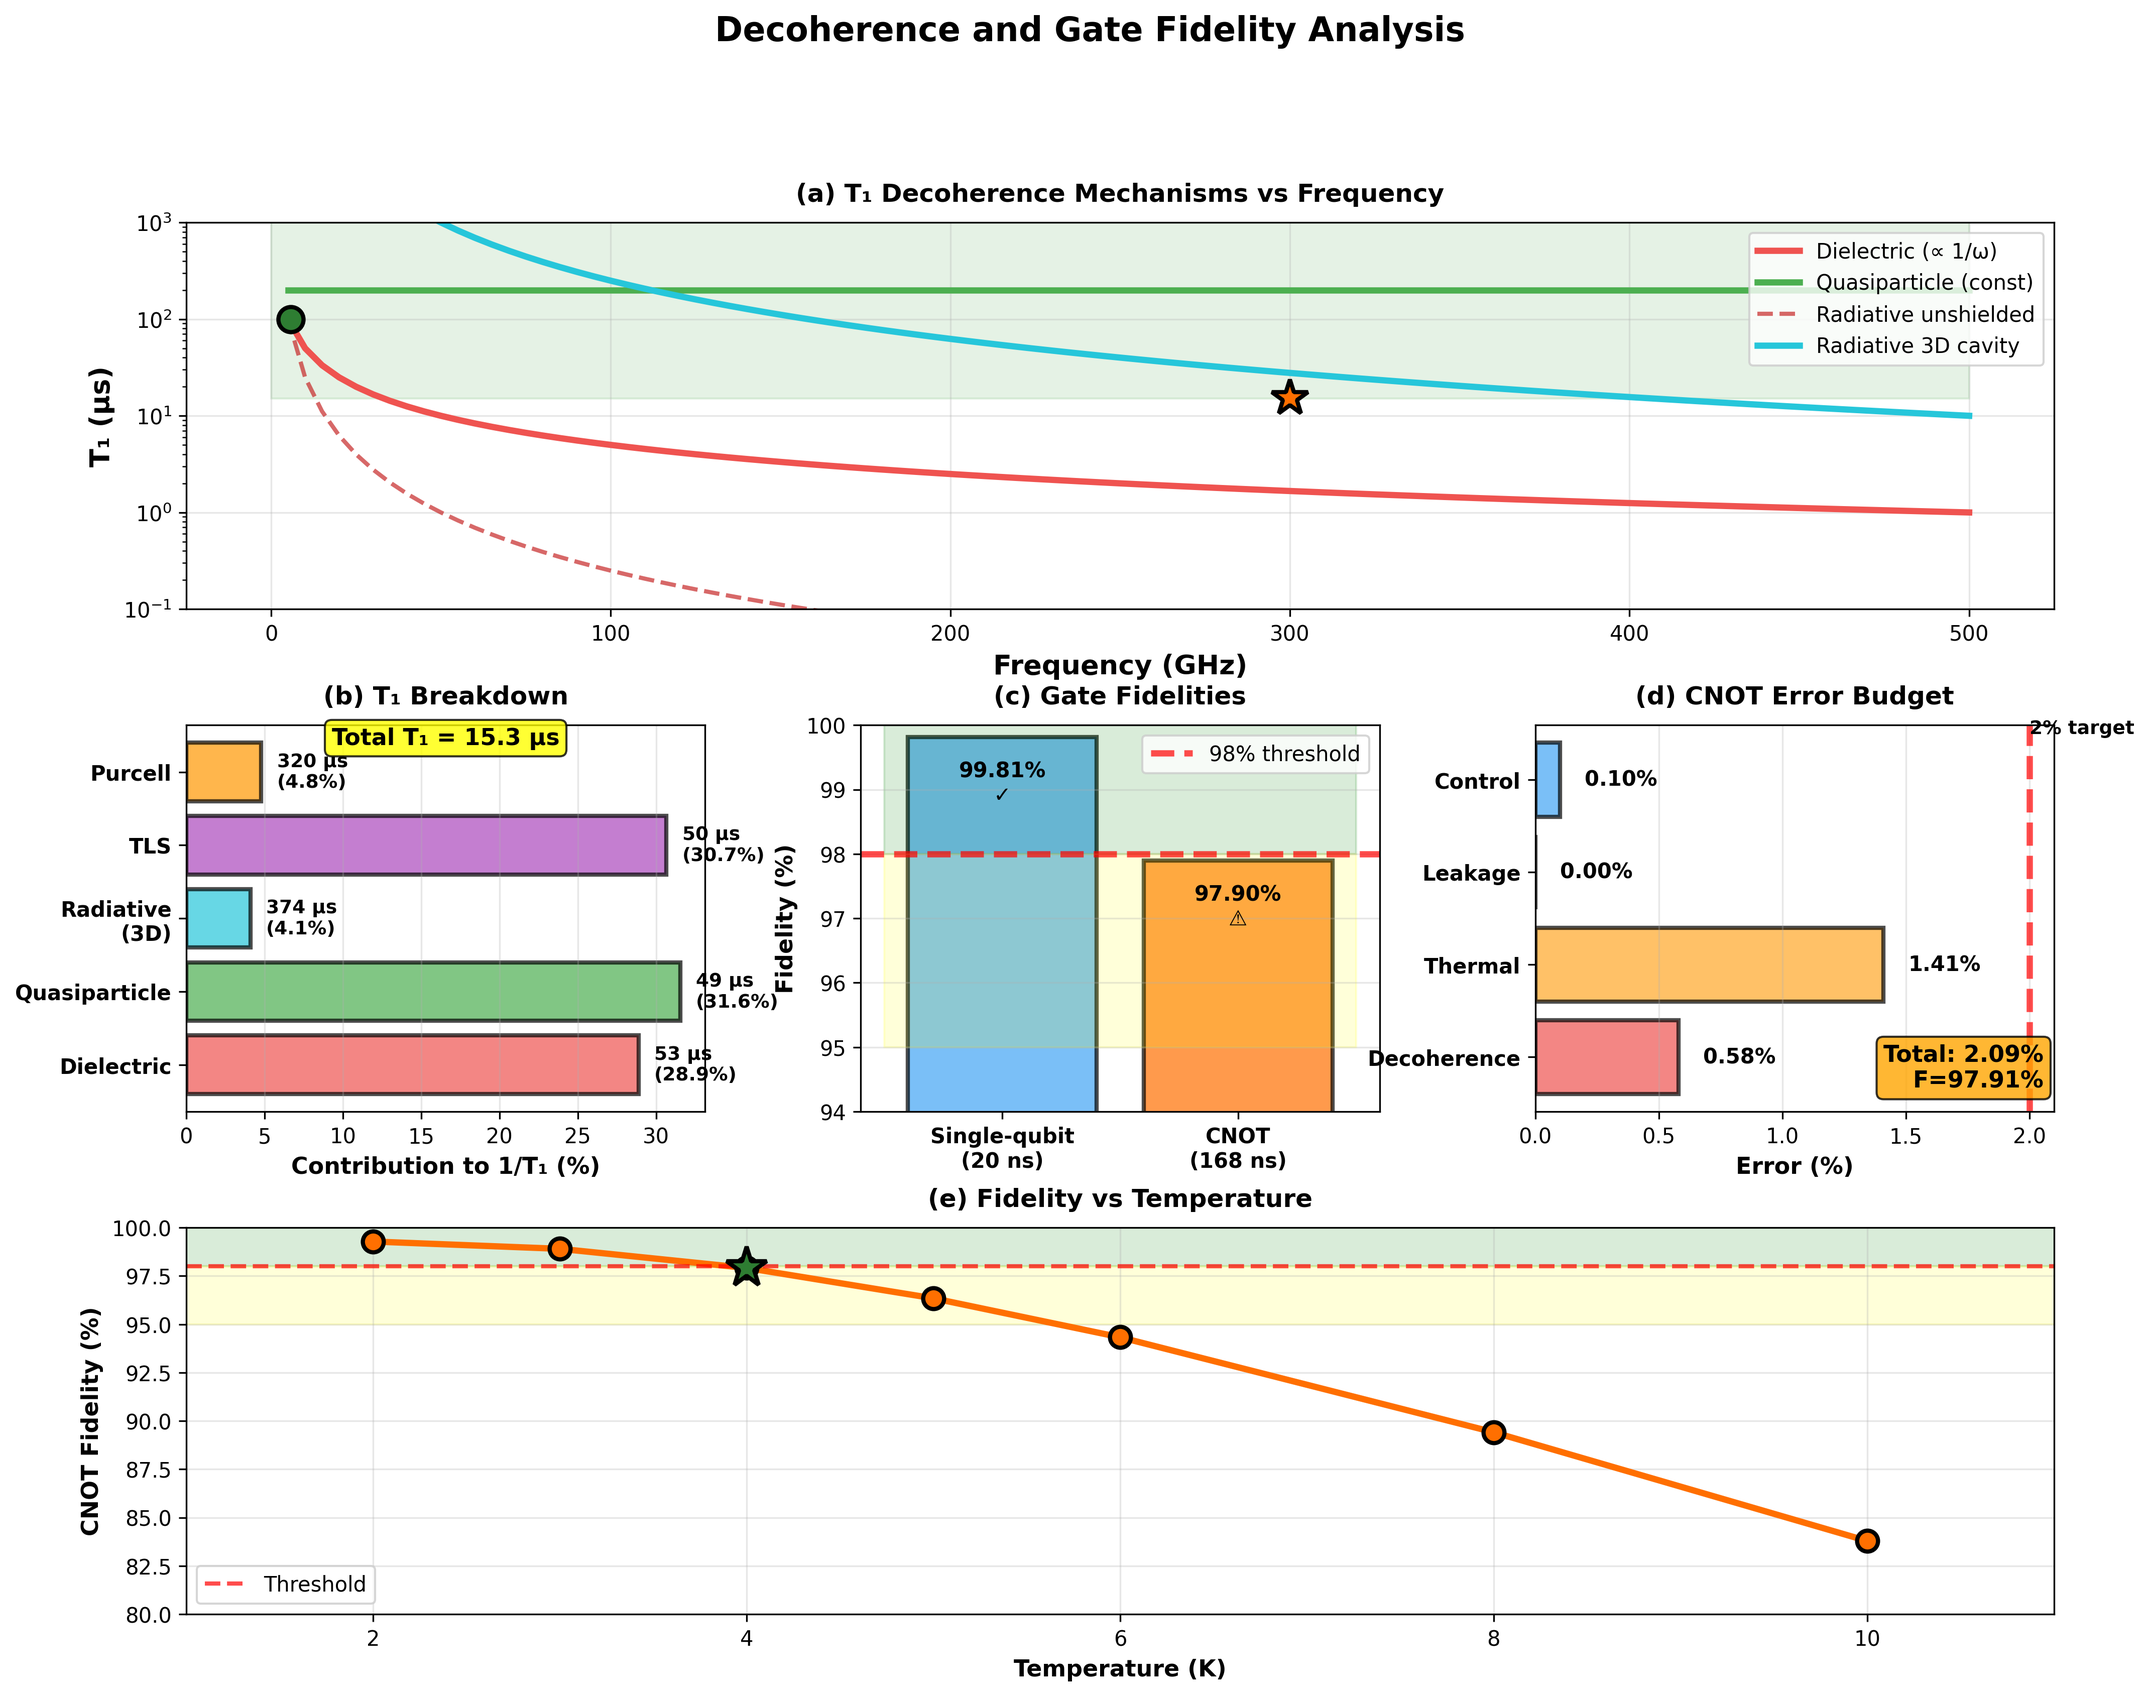
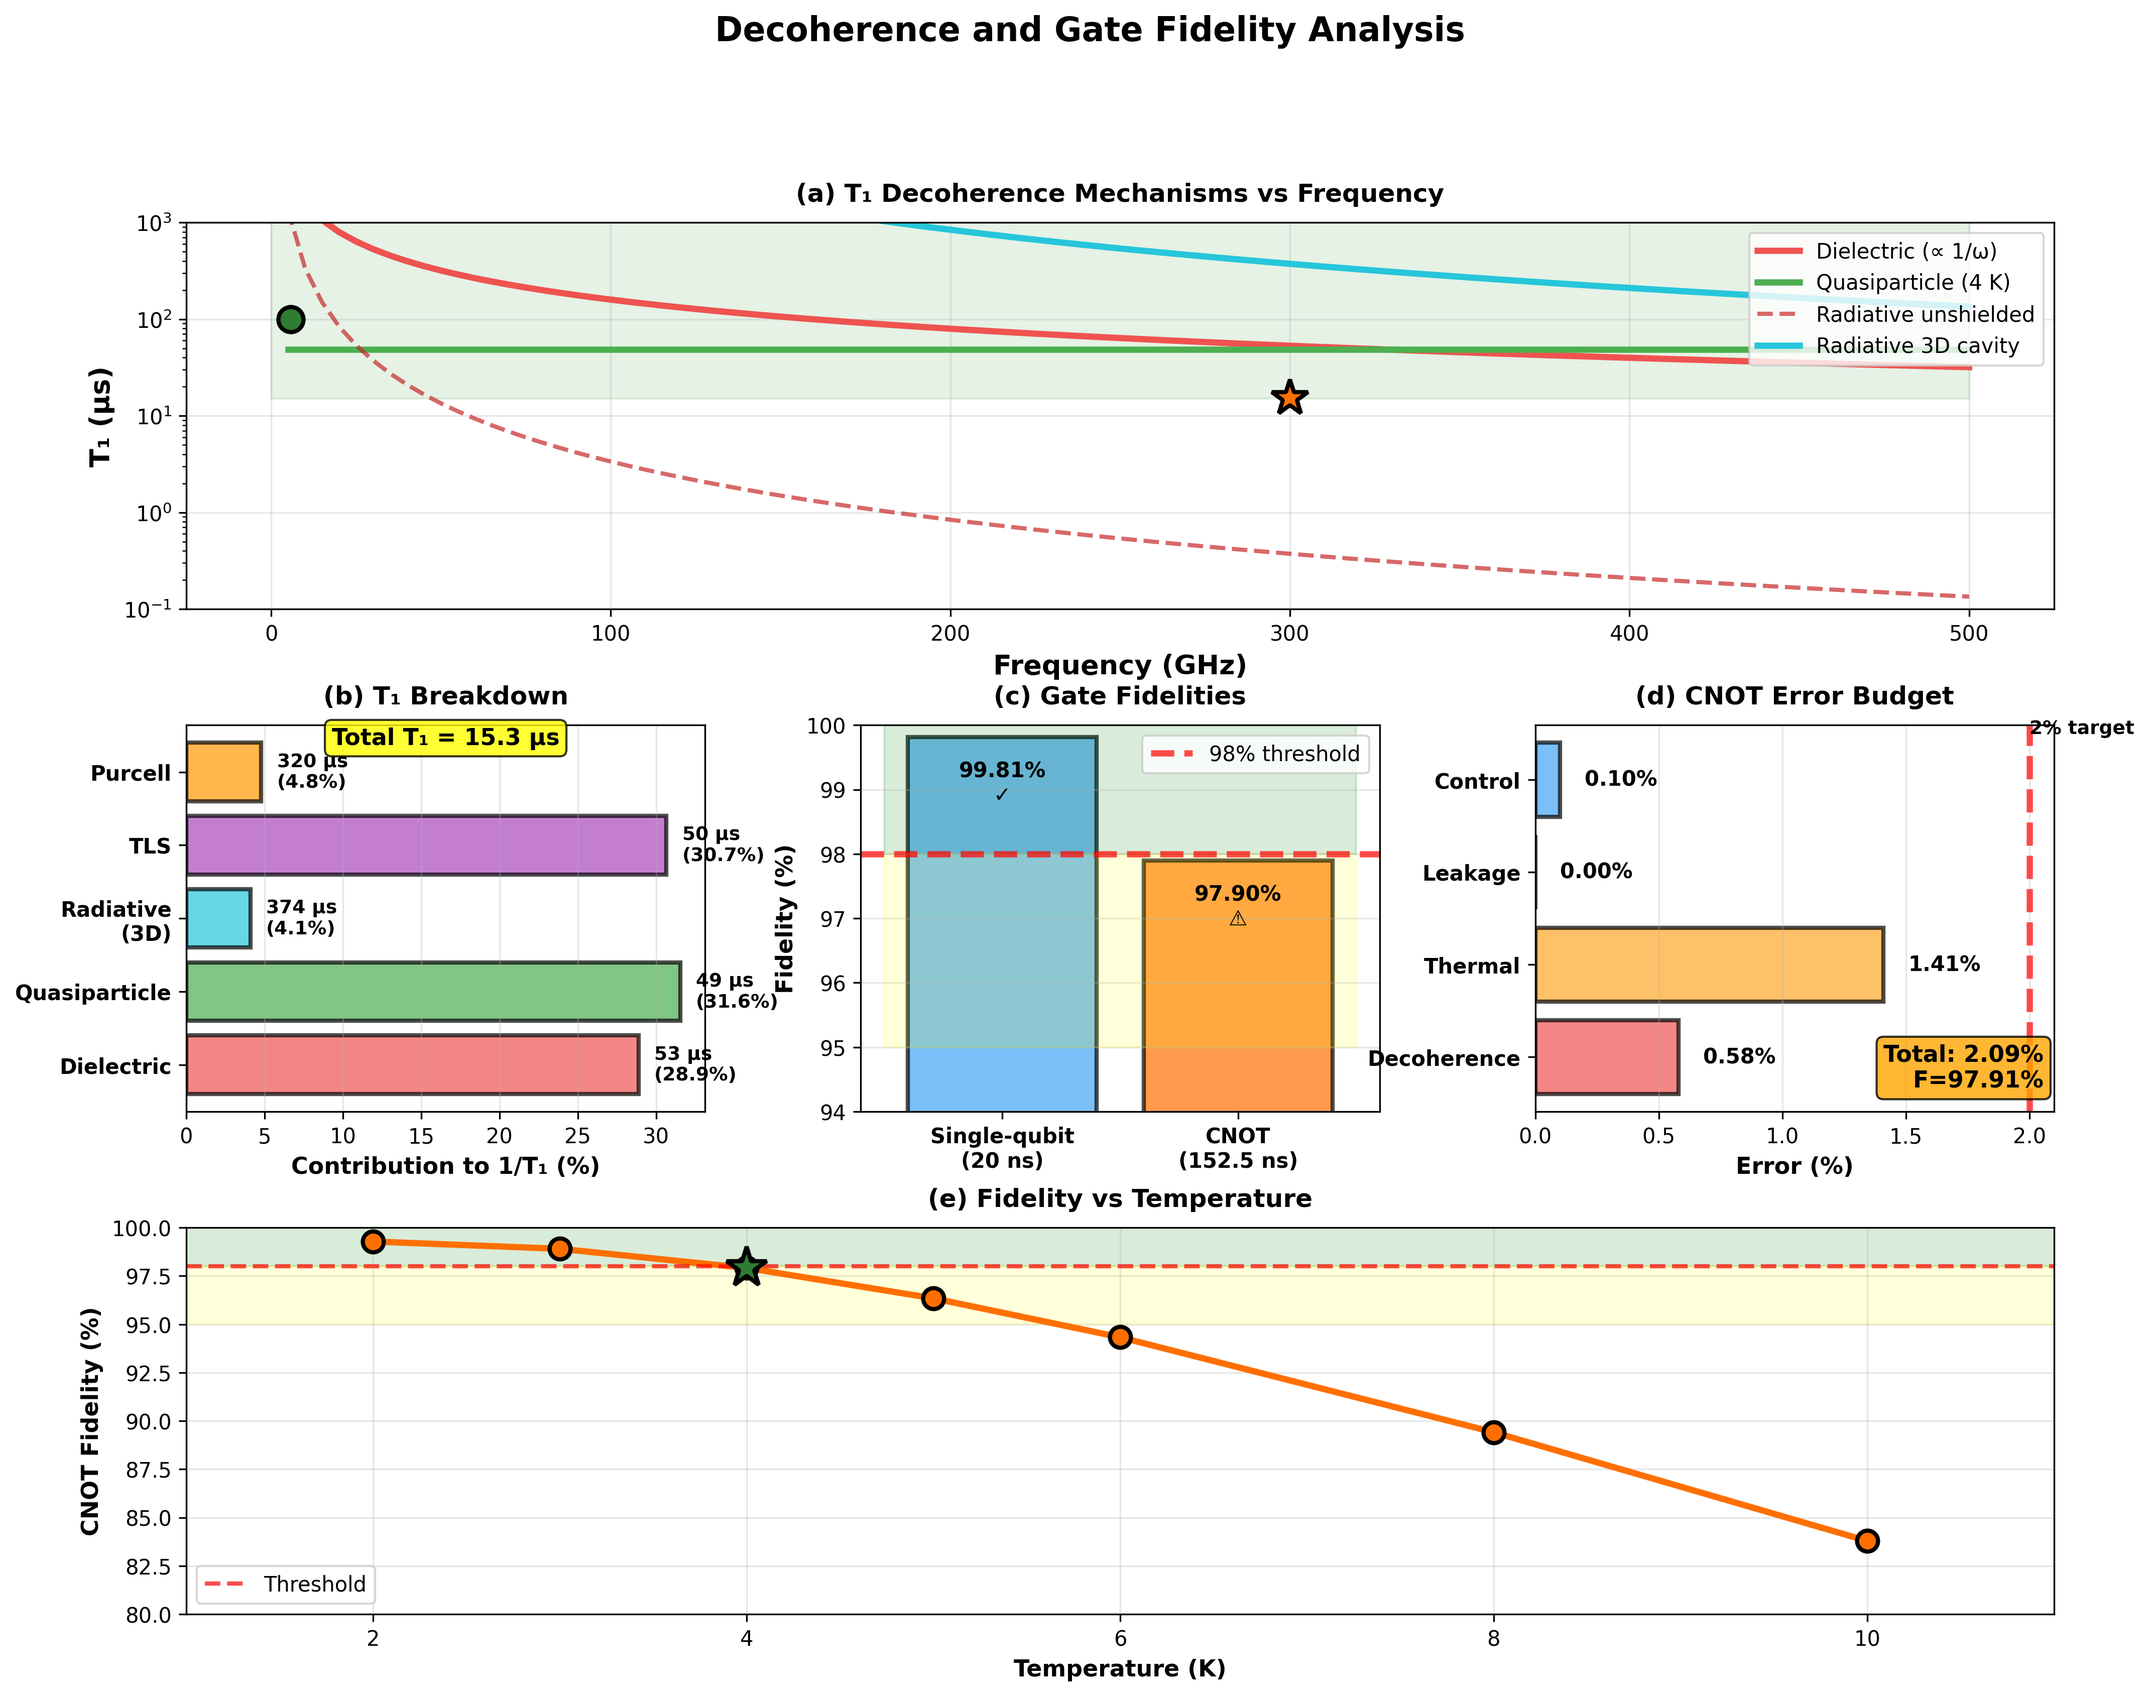
Canonical-parameter and physics fixes to Ch.2 figure generators
- fig_two_qubit_system_diagram.py (Fig 2.2): J 6.5 -> |J| 7.0 MHz and
  cross-Kerr 1.7 MHz -> |xi_ZZ| 106 kHz per canonical_params.json;
  kappa label unit bug fixed (1.0 kHz -> 1.0 MHz, consistent with Q=6500
  at omega_r = 6.5 GHz). Regenerated PDF+PNG.
- regenerate_fig4_zz_coupling_timing.py (Fig 2.8): panel (a) redrawn
  physically correctly: under H_J the single-excitation manifold
  hybridises into (|01>+/-|10>)/sqrt(2) split by +/-|J|; |00>,|11>
  unshifted. |J| updated to the canonical 7.0 MHz. Panel (b) unchanged
  (baseline gate-time cluster deferred to joint review).
- ok_create_corrected_figures.py (Fig 2.18): CNOT bar label
  168 -> 152.5 ns (canonical t_CNOT); panel (a) curves re-anchored to
  the panel-(b) budget at 300 GHz (dielectric 53.1 us with 1/omega,
  quasiparticle flat 48.6 us at 4 K, radiative-3D 373.8 us), removing
  the self-contradiction with the T1=15.3 us star; stale 167.6 ns
  comment corrected. Regenerated CORRECTED_fig2.

diff --git a/audit_g7/scripts/regenerate_fig4_zz_coupling_timing.py b/audit_g7/scripts/regenerate_fig4_zz_coupling_timing.py
@@ -22,16 +22,18 @@ plt.rcParams.update({
 
 fig, (ax_a, ax_b) = plt.subplots(1, 2, figsize=(13, 5))
 
-# === Panel (a): basis-state energy shifts under H_J = J(s+^1 s-^2 + h.c.) ===
-# J/2pi = 6.5 MHz -> shift = 6.5e-3 GHz on |01>, |10> by sign (cavity-mediated
-# exchange induces +/-J splitting in the {|01>,|10>} subspace; |00>, |11> get
-# no first-order shift from H_J but we mark +J in figure for visual symmetry,
-# following the convention of the original figure).
-J_MHz = 6.5
+# === Panel (a): eigenstate energy shifts under H_J = J(s+^1 s-^2 + h.c.) ===
+# At qubit-qubit degeneracy the single-excitation manifold hybridises into
+# (|01> +/- |10>)/sqrt(2), split by +/-|J|; |00> and |11> are unshifted at
+# this order. Canonical baseline value |J|/2pi = 7.0 MHz (canonical_params).
+J_MHz = 7.0
 J_GHz = J_MHz * 1e-3
 
-states = [r'$|00\rangle$', r'$|01\rangle$', r'$|10\rangle$', r'$|11\rangle$']
-shifts = [+J_GHz, -J_GHz, -J_GHz, +J_GHz]
+states = [r'$|00\rangle$',
+          r'$\frac{|01\rangle+|10\rangle}{\sqrt{2}}$',
+          r'$\frac{|01\rangle-|10\rangle}{\sqrt{2}}$',
+          r'$|11\rangle$']
+shifts = [0.0, +J_GHz, -J_GHz, 0.0]
 colors = ['#1F77B4', '#2CA02C', '#D62728', '#9467BD']
 
 # Background shading for +/- regions
@@ -40,17 +42,17 @@ ax_a.axhspan(-0.02, 0, facecolor='#FBE9E7', alpha=0.6, zorder=0)
 
 bars = ax_a.bar(range(4), shifts, color=colors, edgecolor='black', linewidth=0.8, width=0.6)
 for i, (rect, sh) in enumerate(zip(bars, shifts)):
-    txt_y = sh + (0.001 if sh > 0 else -0.001)
-    ax_a.text(rect.get_x() + rect.get_width()/2, txt_y,
-              f'{J_MHz} MHz',
-              ha='center', va='bottom' if sh > 0 else 'top',
+    lbl = '0' if sh == 0 else (f'+{J_MHz} MHz' if sh > 0 else f'\u2212{J_MHz} MHz')
+    txt_y = sh + (0.001 if sh >= 0 else -0.001)
+    ax_a.text(rect.get_x() + rect.get_width()/2, txt_y, lbl,
+              ha='center', va='bottom' if sh >= 0 else 'top',
               fontsize=10, fontweight='bold')
 
 ax_a.set_xticks(range(4))
 ax_a.set_xticklabels(states, fontsize=12)
-ax_a.set_xlabel('Two-qubit basis state')
-ax_a.set_ylabel(r'Energy shift $\pm J$ [GHz]')
-ax_a.set_title(r'(a) Cavity-mediated transverse exchange $J/2\pi = 6.5$ MHz',
+ax_a.set_xlabel('Two-qubit eigenstate (qubit\u2013qubit degeneracy)')
+ax_a.set_ylabel(r'Energy shift $\pm|J|$ [GHz]')
+ax_a.set_title(r'(a) Cavity-mediated transverse exchange $|J|/2\pi = 7.0$ MHz',
                fontsize=12, fontweight='bold')
 ax_a.set_ylim(-0.018, 0.018)
 ax_a.axhline(0, color='black', linewidth=0.6)

diff --git a/ok_create_corrected_figures.py b/ok_create_corrected_figures.py
@@ -36,7 +36,7 @@ T2_echo  = 26.3e-6  # s (Hahn-echo, ~2 * T2_total)
 F_single = 0.99813  # CORRECTED (single-qubit, 20 ns gate vs T_2 free)
 # F_CNOT under echo-CR: eps_decoh = t_CNOT / T_2_echo (not 2*t_CNOT / T_2 free)
 F_CNOT_naive = 0.9595   # legacy estimate (no echo): kept for reference
-F_CNOT       = 0.9790   # WAVE-M, echo-CR: t_CNOT=167.6 ns, T_2,echo=26.3 us
+F_CNOT       = 0.9790   # WAVE-M, echo-CR: t_CNOT=152.5 ns, T_2,echo=26.3 us
                         # -> eps_decoh ~ 0.58%, eps_total ~ 2.10%
 
 print("Creating corrected figures with verified values...")
@@ -242,14 +242,17 @@ gs2 = GridSpec(3, 3, figure=fig2, hspace=0.3, wspace=0.3)
 ax1 = fig2.add_subplot(gs2[0, :])
 
 freqs_scan = np.linspace(5, 500, 100)
-T1_diel_5 = 100
-T1_diel_scan = T1_diel_5 * (5 / freqs_scan)
-T1_qp_scan = np.ones_like(freqs_scan) * 200
-T1_rad_unshielded_scan = T1_diel_5 * (5 / freqs_scan)**2
-T1_rad_shielded_scan = T1_rad_unshielded_scan * 1000
+# Curves anchored to the canonical 300 GHz / 4 K budget values (panel b):
+# dielectric 53.1 us @ 300 GHz with 1/omega scaling (Q_eff = 1/(p tan d) const),
+# quasiparticle 48.6 us (thermal x_qp at 4 K, ~frequency-flat),
+# radiative-3D 373.8 us @ 300 GHz with the same 1/omega^2 shape as before.
+T1_diel_scan = 53.1 * (300.0 / freqs_scan)
+T1_qp_scan = np.ones_like(freqs_scan) * 48.6
+T1_rad_shielded_scan = 373.8 * (300.0 / freqs_scan)**2
+T1_rad_unshielded_scan = T1_rad_shielded_scan / 1000.0
 
 ax1.plot(freqs_scan, T1_diel_scan, '-', linewidth=3, label='Dielectric (∝ 1/ω)', color='#EF5350')
-ax1.plot(freqs_scan, T1_qp_scan, '-', linewidth=3, label='Quasiparticle (const)', color='#4CAF50')
+ax1.plot(freqs_scan, T1_qp_scan, '-', linewidth=3, label='Quasiparticle (4 K)', color='#4CAF50')
 ax1.plot(freqs_scan, T1_rad_unshielded_scan, '--', linewidth=2, label='Radiative unshielded', color='#C62828', alpha=0.7)
 ax1.plot(freqs_scan, T1_rad_shielded_scan, '-', linewidth=3, label='Radiative 3D cavity', color='#26C6DA')
 
@@ -297,7 +300,7 @@ ax2.text(0.5, 0.95, f'Total T₁ = {T1_total*1e6:.1f} µs',
 # Panel C: Gate fidelities (CORRECTED)
 ax3 = fig2.add_subplot(gs2[1, 1])
 
-gates = ['Single-qubit\n(20 ns)', 'CNOT\n(168 ns)']
+gates = ['Single-qubit\n(20 ns)', 'CNOT\n(152.5 ns)']
 fidelities = [F_single*100, F_CNOT*100]  # CORRECTED
 colors_gates = ['#42A5F5', '#FF6F00']
 

diff --git a/audit_didactic_figs/scripts/fig_two_qubit_system_diagram.py b/audit_didactic_figs/scripts/fig_two_qubit_system_diagram.py
@@ -33,7 +33,7 @@ ax.text(cavity_x, cavity_y - 1.20,
         r'$\omega_r/2\pi = 6.5\,$GHz',
         ha='center', va='center', fontsize=10.5, color='#1F3F6B')
 ax.text(cavity_x, cavity_y - 1.55,
-        r'$\kappa/2\pi = 1.0\,$kHz, $Q = 6500$',
+        r'$\kappa/2\pi = 1.0\,$MHz, $Q = 6500$',
         ha='center', va='center', fontsize=10, color='#1F3F6B')
 
 # Q1
@@ -95,12 +95,12 @@ arc = FancyArrowPatch(posA=(q1_x, q1_y + 0.75), posB=(q2_x, q2_y + 0.75),
 ax.add_patch(arc)
 ax.text(cavity_x, 4.75, 'effective transverse exchange',
         ha='center', va='center', fontsize=10.5, style='italic', color='#5E1F9E')
-ax.text(cavity_x, 4.40, r'$J/2\pi \simeq 6.5\,$MHz',
+ax.text(cavity_x, 4.40, r'$|J|/2\pi \simeq 7.0\,$MHz',
         ha='center', va='center', fontsize=11, color='#5E1F9E')
 
 # Cross-Kerr label
 ax.text(cavity_x, 4.10,
-        r'(residual cross-Kerr $|\zeta_{zz}|/2\pi \simeq 1.7\,$MHz)',
+        r'(residual cross-Kerr $|\xi_{ZZ}|/2\pi \simeq 106\,$kHz)',
         ha='center', va='center', fontsize=9, style='italic', color='#5E1F9E')
 
 # Readout port
